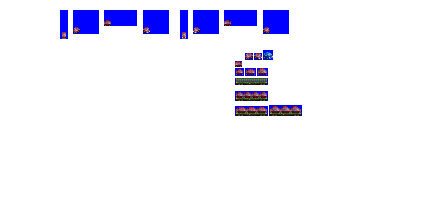
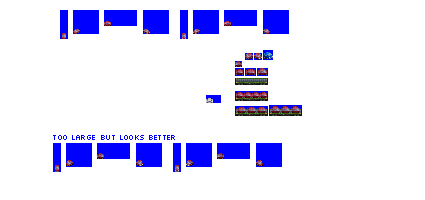
Change: WIP on improving automobiles cars sprites

diff --git a/src/render_cargo_graphics.py b/src/render_cargo_graphics.py
@@ -22,6 +22,8 @@ red = 40
 grey = 2
 black = 1
 white = 8
+blue = 144
+mint_green = 96
 
 piece_cargo_graphics_maps = [
     (
@@ -298,6 +300,26 @@ automobile_cargo_recolour_white = {
     46: white + 6,
     47: white + 8,
 }
+automobile_cargo_recolour_blue = {
+    40: blue,
+    41: blue + 1,
+    42: blue + 2,
+    43: blue + 3,
+    44: blue + 4,
+    45: blue + 5,
+    46: blue + 6,
+    47: blue + 7,
+}
+automobile_cargo_recolour_mint_green = {
+    40: mint_green,
+    41: mint_green + 1,
+    42: mint_green + 2,
+    43: mint_green + 3,
+    44: mint_green + 4,
+    45: mint_green + 5,
+    46: mint_green + 6,
+    47: mint_green + 7,
+}
 
 automobile_cargo_graphics_maps = [
     ("empty_20_foot", "empty_20_foot", automobile_cargo_recolour_1CC),
@@ -305,8 +327,11 @@ automobile_cargo_graphics_maps = [
     ("cars_1_15_foot", "cars_1_15_foot_1CC", automobile_cargo_recolour_1CC),
     ("cars_1_15_foot", "cars_1_15_foot_red", automobile_cargo_recolour_red),
     ("cars_1_15_foot", "cars_1_15_foot_grey", automobile_cargo_recolour_grey),
+    ("cars_1_15_foot", "cars_1_15_foot_mint_green", automobile_cargo_recolour_mint_green),
+    ("cars_1_15_foot", "cars_1_15_foot_blue", automobile_cargo_recolour_blue),
+    # legacy support - used in some Horse branches that are behind the vehicles branch as of Oct 2022
     ("cars_1_15_foot", "cars_1_15_foot_black", automobile_cargo_recolour_black),
-    ("cars_1_15_foot", "cars_1_15_foot_white", automobile_cargo_recolour_white),
+    ("cars_1_15_foot", "cars_1_15_foot_white", automobile_cargo_recolour_white)
 ]
 
 knockout_guides_map = {k: 0 for k in range(215, 227)}
